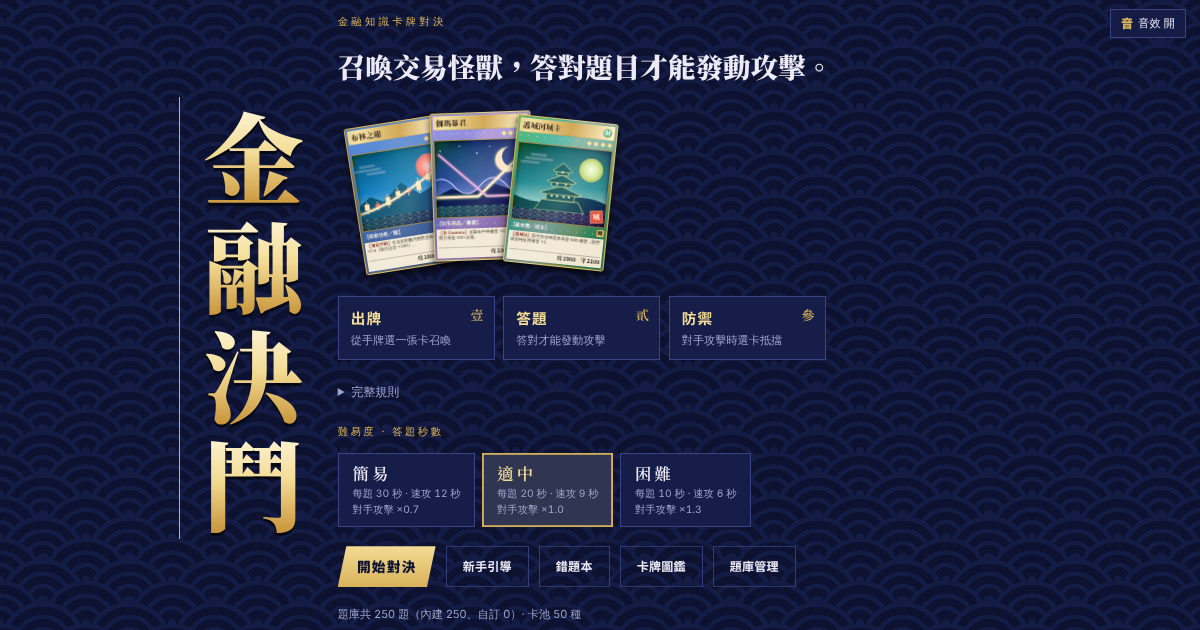
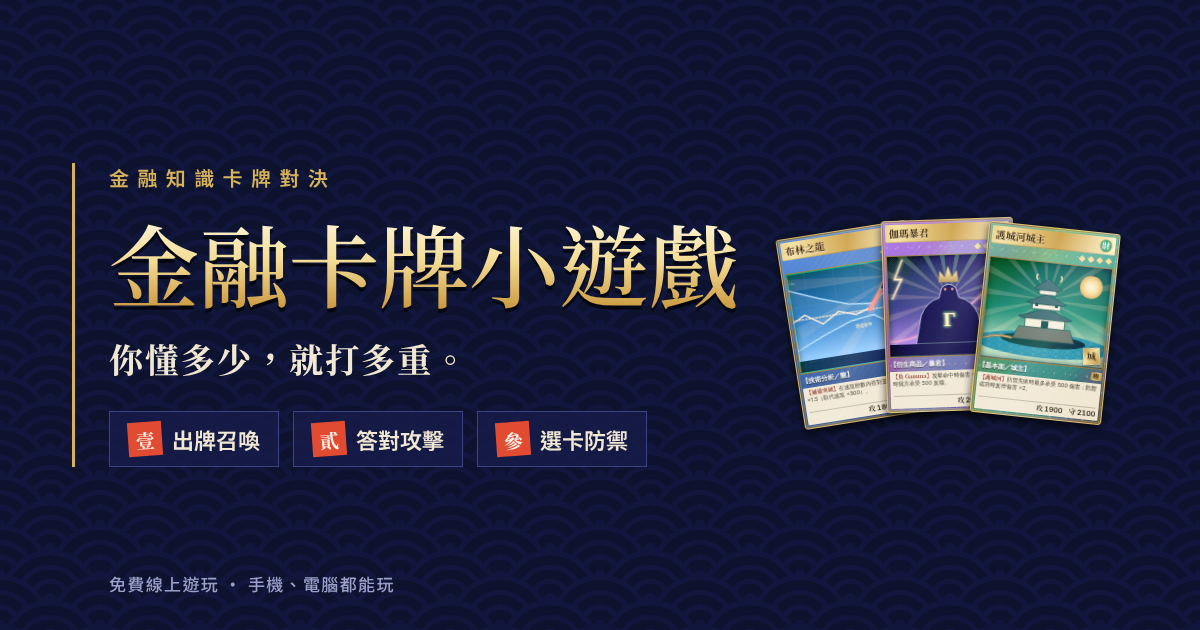
社群分享預覽圖改為「金融卡牌小遊戲」
Claude-Session: https://claude.ai/code/session_01KZx3QnYKvkJN7uky4hGtYk

diff --git a/index.html b/index.html
@@ -11,13 +11,13 @@
 <meta property="og:url" content="https://maxtrader0207.github.io/Financial_Card_Mini-game/">
 <meta property="og:site_name" content="金融卡牌小遊戲">
 <meta property="og:locale" content="zh_TW">
-<meta property="og:image" content="https://maxtrader0207.github.io/Financial_Card_Mini-game/og-image.png?v=3">
+<meta property="og:image" content="https://maxtrader0207.github.io/Financial_Card_Mini-game/og-image.png?v=4">
 <meta property="og:image:width" content="1200">
 <meta property="og:image:height" content="630">
 <meta property="og:image:alt" content="金融卡牌小遊戲 標題畫面">
 <meta name="twitter:card" content="summary_large_image">
 <meta name="twitter:title" content="金融卡牌小遊戲">
-<meta name="twitter:image" content="https://maxtrader0207.github.io/Financial_Card_Mini-game/og-image.png?v=3">
+<meta name="twitter:image" content="https://maxtrader0207.github.io/Financial_Card_Mini-game/og-image.png?v=4">
 <link rel="preconnect" href="https://fonts.googleapis.com">
 <link rel="preconnect" href="https://fonts.gstatic.com" crossorigin>
 <!-- body text font; loaded without blocking the first paint (titles and card names use the bundled FD fonts) -->
